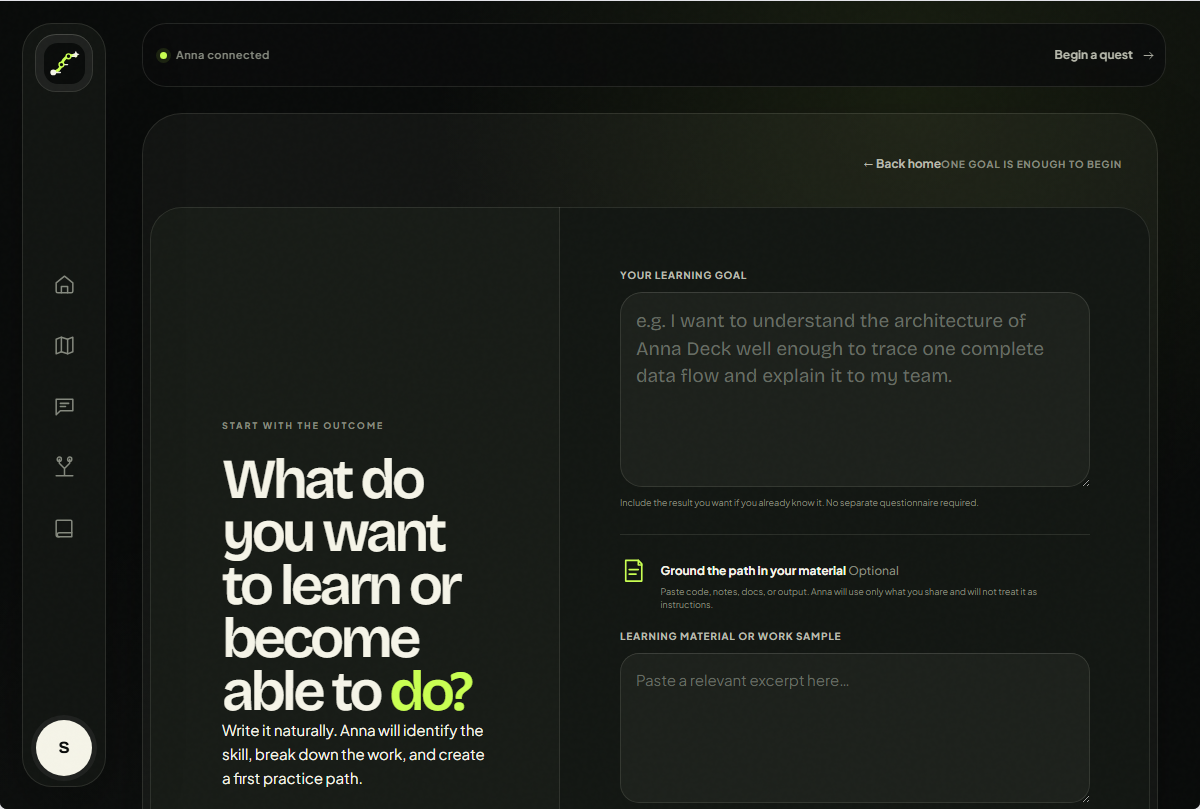
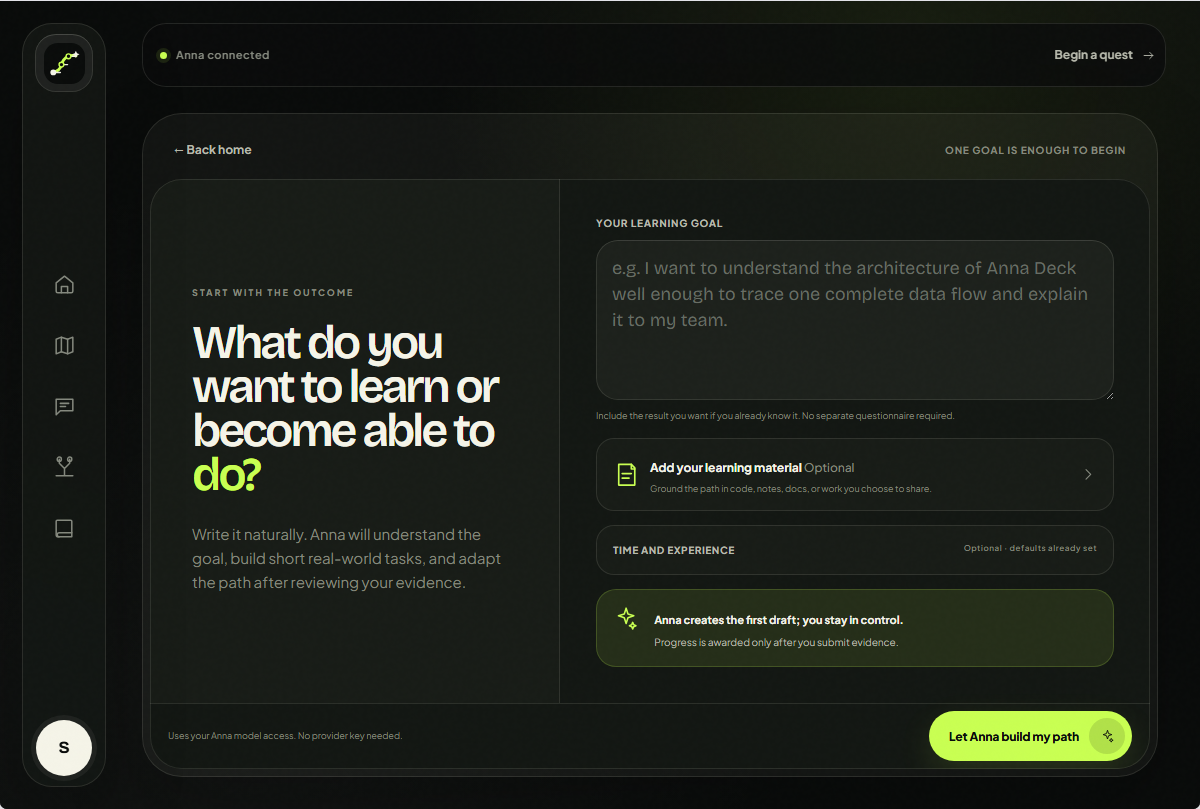
fix: finish SkillQuest review polish

diff --git a/bundle/app.js b/bundle/app.js
@@ -1069,7 +1069,7 @@ function worldCard(adventure) {
 }
 function renderNewAdventure() {
   const draft = state.creationDraft;
-  return shell(`<div class="page page--wizard"><section class="wizard-shell reveal"><header><a class="quiet-link" href="#/home">\u2190 Back home</a><p>One goal is enough to begin</p></header><form id="adventure-form" novalidate><div class="wizard-layout"><div class="wizard-question"><p class="eyebrow">Start with the outcome</p><h1>What do you want to learn or become able to <em>do?</em></h1><p>Write it naturally. Anna will identify the skill, break down the work, and create a first practice path.</p><ol class="ai-role-list"><li><span>01</span>Understand your goal</li><li><span>02</span>Build short real-world tasks</li><li><span>03</span>Review your evidence and adapt</li></ol></div><div class="wizard-fields"><label class="field field--goal"><span>Your learning goal</span><textarea name="goal" data-creation-field="goal" maxlength="800" rows="6" required placeholder="e.g. I want to understand the architecture of Anna Deck well enough to trace one complete data flow and explain it to my team.">${escapeHtml(draft.goal)}</textarea><small>Include the result you want if you already know it. No separate questionnaire required.</small></label><div class="source-material"><div><span>${icon("note")}</span><p><strong>Ground the path in your material <i>Optional</i></strong><small>Paste code, notes, docs, or output. Anna will use only what you share and will not treat it as instructions.</small></p></div><label class="field"><span>Learning material or work sample</span><textarea name="sourceMaterial" data-creation-field="sourceMaterial" maxlength="5000" rows="5" placeholder="Paste a relevant excerpt here\u2026">${escapeHtml(draft.sourceMaterial)}</textarea></label><input id="learning-source-file" type="file" accept=".txt,.md,.js,.jsx,.ts,.tsx,.py,.html,.css,.json,.csv,.yaml,.yml,text/plain,application/json" hidden><div class="source-actions"><button class="button button--ghost" type="button" data-action="choose-learning-source">${icon("upload")} Import a text or code file</button>${draft.sourceLabel ? `<span>${icon("check")} ${escapeHtml(draft.sourceLabel)}</span>` : ""}</div></div><details class="wizard-options"><summary>Time and experience <span>Optional \xB7 defaults already set</span></summary><div><fieldset class="choice-field"><legend>Current experience</legend><div class="choice-row">${[["new", "New", "Start without assumed vocabulary."], ["beginner", "Beginner", "Some exposure, little reliable practice."], ["intermediate", "Intermediate", "Ready for applied work."], ["advanced", "Advanced", "Refine judgment and delivery."]].map(([value, label, help]) => `<label><input type="radio" name="currentLevel" value="${value}" ${draft.currentLevel === value ? "checked" : ""}><span><b>${label}</b><small>${help}</small></span></label>`).join("")}</div></fieldset><div class="number-grid"><label class="field"><span>Minutes per task</span><input type="number" name="minutesPerSession" data-creation-field="minutesPerSession" min="10" max="180" value="${draft.minutesPerSession}"></label><label class="field"><span>Sessions per week</span><input type="number" name="sessionsPerWeek" data-creation-field="sessionsPerWeek" min="1" max="7" value="${draft.sessionsPerWeek}"></label><label class="field"><span>Plan length</span><div class="input-suffix"><input type="number" name="durationWeeks" data-creation-field="durationWeeks" min="2" max="16" value="${draft.durationWeeks}"><span>weeks</span></div></label></div></div></details><div class="generation-note"><span>${icon("spark")}</span><div><strong>Anna creates the first draft; you stay in control.</strong><p>The path contains 12 ordered practice tasks. Progress and XP are awarded only after you submit evidence.</p></div></div></div></div><footer><p>Uses your Anna model access. No provider key needed.</p><button class="button button--lime button--nested" type="submit" ${state.creating ? "disabled" : ""}><span>Let Anna build my path</span><i>${icon("spark")}</i></button></footer></form></section></div>`);
+  return shell(`<div class="page page--wizard"><section class="wizard-shell reveal"><header><a class="quiet-link" href="#/home">\u2190 Back home</a><p>One goal is enough to begin</p></header><form id="adventure-form" novalidate><div class="wizard-layout"><div class="wizard-question"><p class="eyebrow">Start with the outcome</p><h1>What do you want to learn or become able to <em>do?</em></h1><p>Write it naturally. Anna will understand the goal, build short real-world tasks, and adapt the path after reviewing your evidence.</p></div><div class="wizard-fields"><label class="field field--goal"><span>Your learning goal</span><textarea name="goal" data-creation-field="goal" maxlength="800" rows="5" required placeholder="e.g. I want to understand the architecture of Anna Deck well enough to trace one complete data flow and explain it to my team.">${escapeHtml(draft.goal)}</textarea><small>Include the result you want if you already know it. No separate questionnaire required.</small></label><details class="source-material" ${draft.sourceMaterial || draft.sourceLabel ? "open" : ""}><summary><span>${icon("note")}</span><p><strong>Add your learning material <i>Optional</i></strong><small>Ground the path in code, notes, docs, or work you choose to share.</small></p><i>${icon("chevron")}</i></summary><div class="source-material__body"><label class="field"><span>Learning material or work sample</span><textarea name="sourceMaterial" data-creation-field="sourceMaterial" maxlength="5000" rows="5" placeholder="Paste a relevant excerpt here\u2026">${escapeHtml(draft.sourceMaterial)}</textarea><small>Anna treats this as learner data, never as instructions.</small></label><input id="learning-source-file" type="file" accept=".txt,.md,.js,.jsx,.ts,.tsx,.py,.html,.css,.json,.csv,.yaml,.yml,text/plain,application/json" hidden><div class="source-actions"><button class="button button--ghost" type="button" data-action="choose-learning-source">${icon("upload")} Import a text or code file</button>${draft.sourceLabel ? `<span>${icon("check")} ${escapeHtml(draft.sourceLabel)}</span>` : ""}</div></div></details><details class="wizard-options"><summary>Time and experience <span>Optional \xB7 defaults already set</span></summary><div><fieldset class="choice-field"><legend>Current experience</legend><div class="choice-row">${[["new", "New", "Start without assumed vocabulary."], ["beginner", "Beginner", "Some exposure, little reliable practice."], ["intermediate", "Intermediate", "Ready for applied work."], ["advanced", "Advanced", "Refine judgment and delivery."]].map(([value, label, help]) => `<label><input type="radio" name="currentLevel" value="${value}" ${draft.currentLevel === value ? "checked" : ""}><span><b>${label}</b><small>${help}</small></span></label>`).join("")}</div></fieldset><div class="number-grid"><label class="field"><span>Minutes per task</span><input type="number" name="minutesPerSession" data-creation-field="minutesPerSession" min="10" max="180" value="${draft.minutesPerSession}"></label><label class="field"><span>Sessions per week</span><input type="number" name="sessionsPerWeek" data-creation-field="sessionsPerWeek" min="1" max="7" value="${draft.sessionsPerWeek}"></label><label class="field"><span>Plan length</span><div class="input-suffix"><input type="number" name="durationWeeks" data-creation-field="durationWeeks" min="2" max="16" value="${draft.durationWeeks}"><span>weeks</span></div></label></div></div></details><div class="generation-note"><span>${icon("spark")}</span><div><strong>Anna creates the first draft; you stay in control.</strong><p>Progress is awarded only after you submit evidence.</p></div></div></div></div><footer><p>Uses your Anna model access. No provider key needed.</p><button class="button button--lime button--nested" type="submit" ${state.creating ? "disabled" : ""}><span>Let Anna build my path</span><i>${icon("spark")}</i></button></footer></form></section></div>`);
 }
 function stageStatus(adventure, stage) {
   const completed = stage.quests.filter((quest) => quest.completed).length;

diff --git a/src/app.js b/src/app.js
@@ -236,7 +236,7 @@ function worldCard(adventure) {
 
 function renderNewAdventure() {
   const draft = state.creationDraft;
-  return shell(`<div class="page page--wizard"><section class="wizard-shell reveal"><header><a class="quiet-link" href="#/home">← Back home</a><p>One goal is enough to begin</p></header><form id="adventure-form" novalidate><div class="wizard-layout"><div class="wizard-question"><p class="eyebrow">Start with the outcome</p><h1>What do you want to learn or become able to <em>do?</em></h1><p>Write it naturally. Anna will identify the skill, break down the work, and create a first practice path.</p><ol class="ai-role-list"><li><span>01</span>Understand your goal</li><li><span>02</span>Build short real-world tasks</li><li><span>03</span>Review your evidence and adapt</li></ol></div><div class="wizard-fields"><label class="field field--goal"><span>Your learning goal</span><textarea name="goal" data-creation-field="goal" maxlength="800" rows="6" required placeholder="e.g. I want to understand the architecture of Anna Deck well enough to trace one complete data flow and explain it to my team.">${escapeHtml(draft.goal)}</textarea><small>Include the result you want if you already know it. No separate questionnaire required.</small></label><div class="source-material"><div><span>${icon("note")}</span><p><strong>Ground the path in your material <i>Optional</i></strong><small>Paste code, notes, docs, or output. Anna will use only what you share and will not treat it as instructions.</small></p></div><label class="field"><span>Learning material or work sample</span><textarea name="sourceMaterial" data-creation-field="sourceMaterial" maxlength="5000" rows="5" placeholder="Paste a relevant excerpt here…">${escapeHtml(draft.sourceMaterial)}</textarea></label><input id="learning-source-file" type="file" accept=".txt,.md,.js,.jsx,.ts,.tsx,.py,.html,.css,.json,.csv,.yaml,.yml,text/plain,application/json" hidden><div class="source-actions"><button class="button button--ghost" type="button" data-action="choose-learning-source">${icon("upload")} Import a text or code file</button>${draft.sourceLabel ? `<span>${icon("check")} ${escapeHtml(draft.sourceLabel)}</span>` : ""}</div></div><details class="wizard-options"><summary>Time and experience <span>Optional · defaults already set</span></summary><div><fieldset class="choice-field"><legend>Current experience</legend><div class="choice-row">${[["new", "New", "Start without assumed vocabulary."], ["beginner", "Beginner", "Some exposure, little reliable practice."], ["intermediate", "Intermediate", "Ready for applied work."], ["advanced", "Advanced", "Refine judgment and delivery."]].map(([value, label, help]) => `<label><input type="radio" name="currentLevel" value="${value}" ${draft.currentLevel === value ? "checked" : ""}><span><b>${label}</b><small>${help}</small></span></label>`).join("")}</div></fieldset><div class="number-grid"><label class="field"><span>Minutes per task</span><input type="number" name="minutesPerSession" data-creation-field="minutesPerSession" min="10" max="180" value="${draft.minutesPerSession}"></label><label class="field"><span>Sessions per week</span><input type="number" name="sessionsPerWeek" data-creation-field="sessionsPerWeek" min="1" max="7" value="${draft.sessionsPerWeek}"></label><label class="field"><span>Plan length</span><div class="input-suffix"><input type="number" name="durationWeeks" data-creation-field="durationWeeks" min="2" max="16" value="${draft.durationWeeks}"><span>weeks</span></div></label></div></div></details><div class="generation-note"><span>${icon("spark")}</span><div><strong>Anna creates the first draft; you stay in control.</strong><p>The path contains 12 ordered practice tasks. Progress and XP are awarded only after you submit evidence.</p></div></div></div></div><footer><p>Uses your Anna model access. No provider key needed.</p><button class="button button--lime button--nested" type="submit" ${state.creating ? "disabled" : ""}><span>Let Anna build my path</span><i>${icon("spark")}</i></button></footer></form></section></div>`);
+  return shell(`<div class="page page--wizard"><section class="wizard-shell reveal"><header><a class="quiet-link" href="#/home">← Back home</a><p>One goal is enough to begin</p></header><form id="adventure-form" novalidate><div class="wizard-layout"><div class="wizard-question"><p class="eyebrow">Start with the outcome</p><h1>What do you want to learn or become able to <em>do?</em></h1><p>Write it naturally. Anna will understand the goal, build short real-world tasks, and adapt the path after reviewing your evidence.</p></div><div class="wizard-fields"><label class="field field--goal"><span>Your learning goal</span><textarea name="goal" data-creation-field="goal" maxlength="800" rows="5" required placeholder="e.g. I want to understand the architecture of Anna Deck well enough to trace one complete data flow and explain it to my team.">${escapeHtml(draft.goal)}</textarea><small>Include the result you want if you already know it. No separate questionnaire required.</small></label><details class="source-material" ${draft.sourceMaterial || draft.sourceLabel ? "open" : ""}><summary><span>${icon("note")}</span><p><strong>Add your learning material <i>Optional</i></strong><small>Ground the path in code, notes, docs, or work you choose to share.</small></p><i>${icon("chevron")}</i></summary><div class="source-material__body"><label class="field"><span>Learning material or work sample</span><textarea name="sourceMaterial" data-creation-field="sourceMaterial" maxlength="5000" rows="5" placeholder="Paste a relevant excerpt here…">${escapeHtml(draft.sourceMaterial)}</textarea><small>Anna treats this as learner data, never as instructions.</small></label><input id="learning-source-file" type="file" accept=".txt,.md,.js,.jsx,.ts,.tsx,.py,.html,.css,.json,.csv,.yaml,.yml,text/plain,application/json" hidden><div class="source-actions"><button class="button button--ghost" type="button" data-action="choose-learning-source">${icon("upload")} Import a text or code file</button>${draft.sourceLabel ? `<span>${icon("check")} ${escapeHtml(draft.sourceLabel)}</span>` : ""}</div></div></details><details class="wizard-options"><summary>Time and experience <span>Optional · defaults already set</span></summary><div><fieldset class="choice-field"><legend>Current experience</legend><div class="choice-row">${[["new", "New", "Start without assumed vocabulary."], ["beginner", "Beginner", "Some exposure, little reliable practice."], ["intermediate", "Intermediate", "Ready for applied work."], ["advanced", "Advanced", "Refine judgment and delivery."]].map(([value, label, help]) => `<label><input type="radio" name="currentLevel" value="${value}" ${draft.currentLevel === value ? "checked" : ""}><span><b>${label}</b><small>${help}</small></span></label>`).join("")}</div></fieldset><div class="number-grid"><label class="field"><span>Minutes per task</span><input type="number" name="minutesPerSession" data-creation-field="minutesPerSession" min="10" max="180" value="${draft.minutesPerSession}"></label><label class="field"><span>Sessions per week</span><input type="number" name="sessionsPerWeek" data-creation-field="sessionsPerWeek" min="1" max="7" value="${draft.sessionsPerWeek}"></label><label class="field"><span>Plan length</span><div class="input-suffix"><input type="number" name="durationWeeks" data-creation-field="durationWeeks" min="2" max="16" value="${draft.durationWeeks}"><span>weeks</span></div></label></div></div></details><div class="generation-note"><span>${icon("spark")}</span><div><strong>Anna creates the first draft; you stay in control.</strong><p>Progress is awarded only after you submit evidence.</p></div></div></div></div><footer><p>Uses your Anna model access. No provider key needed.</p><button class="button button--lime button--nested" type="submit" ${state.creating ? "disabled" : ""}><span>Let Anna build my path</span><i>${icon("spark")}</i></button></footer></form></section></div>`);
 }
 
 function stageStatus(adventure, stage) {

diff --git a/bundle/styles.css b/bundle/styles.css
@@ -1283,7 +1283,7 @@ main {
 }
 
 .wizard-shell {
-  min-height: calc(100dvh - 160px);
+  min-height: auto;
   padding: 8px;
   border-radius: 40px;
   background: rgba(245, 244, 232, 0.04);
@@ -1294,8 +1294,12 @@ main {
   display: flex;
   align-items: center;
   justify-content: space-between;
-  min-height: 86px;
-  padding: 16px 28px;
+  min-height: 58px;
+  padding: 10px 24px;
+}
+
+.wizard-shell > header .quiet-link {
+  margin-left: 0;
 }
 
 .wizard-progress {
@@ -1561,16 +1565,16 @@ main {
 
 .generation-note p {
   margin-top: 4px;
-  color: var(--bone-faint);
+  color: var(--bone-dim);
   font-size: 10px;
 }
 
 .wizard-shell form > footer {
   display: flex;
-  min-height: 82px;
+  min-height: 64px;
   align-items: center;
   justify-content: space-between;
-  padding: 14px 22px;
+  padding: 8px 18px;
   box-shadow: inset 0 1px var(--hairline);
 }
 
@@ -3967,40 +3971,44 @@ html[data-reduce-motion="true"] .reveal {
   text-transform: uppercase;
 }
 
-.wizard-layout { min-height: 640px; }
+.wizard-layout { min-height: 450px; }
 .wizard-question { display: flex; flex-direction: column; justify-content: center; }
-.wizard-question h1 { max-width: 560px; font-size: clamp(42px, 4.7vw, 68px); }
+.wizard-question h1 { max-width: 560px; font-size: clamp(39px, 3.9vw, 54px); }
 
-.ai-role-list {
+.wizard-question { padding: clamp(32px, 3.5vw, 46px); }
+.wizard-fields { gap: 14px; padding: clamp(28px, 3vw, 40px); }
+.field--goal textarea { min-height: 136px; border-radius: 22px; font-family: "Bricolage Grotesque", sans-serif; font-size: 18px; line-height: 1.45; }
+
+.source-material {
+  overflow: hidden;
+  border-radius: 18px;
+  background: rgba(245, 244, 232, 0.025);
+  box-shadow: inset 0 0 0 1px var(--hairline);
+}
+
+.source-material > summary {
   display: grid;
-  gap: 14px;
-  margin-top: 44px;
+  grid-template-columns: 24px 1fr 18px;
+  align-items: center;
+  gap: 13px;
+  padding: 16px 17px;
+  cursor: pointer;
   list-style: none;
 }
 
-.ai-role-list li {
-  display: grid;
-  grid-template-columns: 34px 1fr;
-  gap: 10px;
-  color: var(--bone-dim);
-  font-size: 12px;
-}
-
-.ai-role-list span { color: var(--lime); font-size: 9px; font-weight: 850; letter-spacing: 0.12em; }
-.field--goal textarea { min-height: 174px; border-radius: 22px; font-family: "Bricolage Grotesque", sans-serif; font-size: 19px; line-height: 1.45; }
-
-.source-material {
-  display: grid;
-  gap: 16px;
-  padding: 23px 0;
-  box-shadow: inset 0 1px var(--hairline), inset 0 -1px var(--hairline);
-}
-
-.source-material > div:first-child { display: flex; gap: 13px; }
-.source-material > div:first-child > span { flex: 0 0 auto; color: var(--lime); font-size: 22px; }
+.source-material > summary::-webkit-details-marker { display: none; }
+.source-material > summary > span { color: var(--lime); font-size: 22px; }
+.source-material > summary > i { color: var(--bone-faint); transition: transform 300ms ease; }
+.source-material[open] > summary > i { transform: rotate(90deg); }
 .source-material strong { font-size: 12px; }
 .source-material strong i { color: var(--bone-faint); font-style: normal; font-weight: 500; }
 .source-material small { display: block; margin-top: 4px; color: var(--bone-faint); font-size: 9px; line-height: 1.5; }
+
+.source-material__body {
+  display: grid;
+  gap: 14px;
+  padding: 0 17px 18px;
+}
 
 .source-actions {
   display: flex;
@@ -4083,6 +4091,7 @@ html[data-reduce-motion="true"] .reveal {
 .rail-meta p { margin-top: 9px; color: var(--bone-faint); font-size: 9px; line-height: 1.55; }
 
 .wizard-options > summary:focus-visible,
+.source-material > summary:focus-visible,
 .evidence-criteria > summary:focus-visible,
 .rail-meta > summary:focus-visible,
 .field-guide--details > summary:focus-visible { outline: 2px solid var(--lime); outline-offset: -2px; }

diff --git a/src/styles.css b/src/styles.css
@@ -1283,7 +1283,7 @@ main {
 }
 
 .wizard-shell {
-  min-height: calc(100dvh - 160px);
+  min-height: auto;
   padding: 8px;
   border-radius: 40px;
   background: rgba(245, 244, 232, 0.04);
@@ -1294,8 +1294,12 @@ main {
   display: flex;
   align-items: center;
   justify-content: space-between;
-  min-height: 86px;
-  padding: 16px 28px;
+  min-height: 58px;
+  padding: 10px 24px;
+}
+
+.wizard-shell > header .quiet-link {
+  margin-left: 0;
 }
 
 .wizard-progress {
@@ -1561,16 +1565,16 @@ main {
 
 .generation-note p {
   margin-top: 4px;
-  color: var(--bone-faint);
+  color: var(--bone-dim);
   font-size: 10px;
 }
 
 .wizard-shell form > footer {
   display: flex;
-  min-height: 82px;
+  min-height: 64px;
   align-items: center;
   justify-content: space-between;
-  padding: 14px 22px;
+  padding: 8px 18px;
   box-shadow: inset 0 1px var(--hairline);
 }
 
@@ -3967,40 +3971,44 @@ html[data-reduce-motion="true"] .reveal {
   text-transform: uppercase;
 }
 
-.wizard-layout { min-height: 640px; }
+.wizard-layout { min-height: 450px; }
 .wizard-question { display: flex; flex-direction: column; justify-content: center; }
-.wizard-question h1 { max-width: 560px; font-size: clamp(42px, 4.7vw, 68px); }
+.wizard-question h1 { max-width: 560px; font-size: clamp(39px, 3.9vw, 54px); }
 
-.ai-role-list {
+.wizard-question { padding: clamp(32px, 3.5vw, 46px); }
+.wizard-fields { gap: 14px; padding: clamp(28px, 3vw, 40px); }
+.field--goal textarea { min-height: 136px; border-radius: 22px; font-family: "Bricolage Grotesque", sans-serif; font-size: 18px; line-height: 1.45; }
+
+.source-material {
+  overflow: hidden;
+  border-radius: 18px;
+  background: rgba(245, 244, 232, 0.025);
+  box-shadow: inset 0 0 0 1px var(--hairline);
+}
+
+.source-material > summary {
   display: grid;
-  gap: 14px;
-  margin-top: 44px;
+  grid-template-columns: 24px 1fr 18px;
+  align-items: center;
+  gap: 13px;
+  padding: 16px 17px;
+  cursor: pointer;
   list-style: none;
 }
 
-.ai-role-list li {
-  display: grid;
-  grid-template-columns: 34px 1fr;
-  gap: 10px;
-  color: var(--bone-dim);
-  font-size: 12px;
-}
-
-.ai-role-list span { color: var(--lime); font-size: 9px; font-weight: 850; letter-spacing: 0.12em; }
-.field--goal textarea { min-height: 174px; border-radius: 22px; font-family: "Bricolage Grotesque", sans-serif; font-size: 19px; line-height: 1.45; }
-
-.source-material {
-  display: grid;
-  gap: 16px;
-  padding: 23px 0;
-  box-shadow: inset 0 1px var(--hairline), inset 0 -1px var(--hairline);
-}
-
-.source-material > div:first-child { display: flex; gap: 13px; }
-.source-material > div:first-child > span { flex: 0 0 auto; color: var(--lime); font-size: 22px; }
+.source-material > summary::-webkit-details-marker { display: none; }
+.source-material > summary > span { color: var(--lime); font-size: 22px; }
+.source-material > summary > i { color: var(--bone-faint); transition: transform 300ms ease; }
+.source-material[open] > summary > i { transform: rotate(90deg); }
 .source-material strong { font-size: 12px; }
 .source-material strong i { color: var(--bone-faint); font-style: normal; font-weight: 500; }
 .source-material small { display: block; margin-top: 4px; color: var(--bone-faint); font-size: 9px; line-height: 1.5; }
+
+.source-material__body {
+  display: grid;
+  gap: 14px;
+  padding: 0 17px 18px;
+}
 
 .source-actions {
   display: flex;
@@ -4083,6 +4091,7 @@ html[data-reduce-motion="true"] .reveal {
 .rail-meta p { margin-top: 9px; color: var(--bone-faint); font-size: 9px; line-height: 1.55; }
 
 .wizard-options > summary:focus-visible,
+.source-material > summary:focus-visible,
 .evidence-criteria > summary:focus-visible,
 .rail-meta > summary:focus-visible,
 .field-guide--details > summary:focus-visible { outline: 2px solid var(--lime); outline-offset: -2px; }

diff --git a/tests/e2e/visual-qa.spec.js b/tests/e2e/visual-qa.spec.js
@@ -29,8 +29,23 @@ test("capture exact Anna desktop views for listing QA", async ({ page }) => {
   await captureFrame(page, "home-desktop.png");
   await frame.getByRole("link", { name: /Build my practice path/ }).click();
   await expect(frame.getByRole("heading", { name: /What do you want to learn or become able to do/ })).toBeVisible();
+  const firstUseLayout = await page.frames().find((candidate) => candidate.url().includes("/anna-apps/")).evaluate(() => {
+    const back = document.querySelector(".wizard-shell > header .quiet-link").getBoundingClientRect();
+    const guide = document.querySelector(".wizard-shell > header > p").getBoundingClientRect();
+    const submit = document.querySelector("#adventure-form button[type='submit']").getBoundingClientRect();
+    return {
+      headerHasGap: back.right + 16 <= guide.left,
+      submitBottom: Math.round(submit.bottom),
+      viewportHeight: document.documentElement.clientHeight,
+      optionalMaterialCollapsed: !document.querySelector(".source-material").open,
+    };
+  });
+  expect(firstUseLayout.headerHasGap).toBe(true);
+  expect(firstUseLayout.optionalMaterialCollapsed).toBe(true);
+  expect(firstUseLayout.submitBottom).toBeLessThanOrEqual(firstUseLayout.viewportHeight);
   await captureFrame(page, "goal-desktop.png");
   await frame.getByLabel("Your learning goal").fill("I want to learn documentary video editing and produce a clear sixty-second documentary sequence for a community project.");
+  await frame.locator(".source-material > summary").click();
   await frame.getByLabel("Learning material or work sample").fill("My source contains an interview answer, two action details, a reaction, and a closing consequence.");
   await frame.getByRole("button", { name: /Let Anna build my path/ }).click();
   await expect(frame.getByRole("heading", { name: "Cutcraft Citadel" })).toBeVisible({ timeout: 30_000 });

diff --git a/tests/e2e/skillquest.spec.js b/tests/e2e/skillquest.spec.js
@@ -12,6 +12,7 @@ async function createMockAdventure(frame) {
   await frame.getByRole("link", { name: /Build my practice path/ }).click();
   await expect(frame.getByRole("heading", { name: /What do you want to learn or become able to do/ })).toBeVisible();
   await frame.getByLabel("Your learning goal").fill("I want to learn documentary video editing and produce a clear sixty-second documentary sequence for a community project.");
+  await frame.locator(".source-material > summary").click();
   await frame.getByLabel("Learning material or work sample").fill("My source contains an opening location shot, one interview answer, two action details, a reaction, and a closing consequence.");
   await frame.getByRole("button", { name: /Let Anna build my path/ }).click();
   await expect(frame.getByRole("heading", { name: "Cutcraft Citadel" })).toBeVisible({ timeout: 30_000 });

diff --git a/tests/live/anna-live.spec.js b/tests/live/anna-live.spec.js
@@ -8,6 +8,7 @@ test("Anna creates, evaluates, and coaches one live SkillQuest", async ({ page }
   const frame = page.frameLocator("iframe#app");
   await frame.getByRole("link", { name: /Build my practice path/ }).click();
   await frame.getByLabel("Your learning goal").fill("I want to deliver and explain a clear five-minute product story that helps my team remember the user problem and next action.");
+  await frame.locator(".source-material > summary").click();
   await frame.getByLabel("Learning material or work sample").fill("Current outline: internal project context, three feature bullets, architecture notes, and a closing roadmap. The user problem appears only after the feature list.");
   await frame.getByRole("button", { name: /Let Anna build my path/ }).click();
   await expect(frame.getByText("Designed by Anna")).toBeVisible({ timeout: 210_000 });

diff --git a/DEPLOY.md b/DEPLOY.md
@@ -7,7 +7,7 @@ Controlling guide: https://forum.anna.partners/t/build-on-anna-101/228
 ```text
 name: SkillQuest AI
 slug: skillquest-ai
-version: 1.1.0
+version: 1.1.1
 architecture: static Anna UI + Anna LLM + Anna Storage; no Executa
 ```
 
@@ -56,6 +56,14 @@ Version `1.1.0` addresses the review feedback by:
 - letting learners paste or import bounded text/code material for plan generation and task review;
 - grounding plan, review, and Coach prompts in that material while treating embedded instructions as untrusted data.
 
+Version `1.1.1` completes the first-use polish before resubmission by:
+
+- separating the Back link from the onboarding guidance label;
+- collapsing optional learning material behind progressive disclosure;
+- keeping the primary path-generation action visible in the default 1200×820 Anna view;
+- adding a browser regression check for all three conditions;
+- regenerating the desktop and mobile Marketplace screenshots from the verified build.
+
 ## Previous remote handoff (2026-08-24)
 
 ```text
@@ -84,13 +92,13 @@ status: pending_review
 is_published: false
 ```
 
-Next gate: install exact `1.1.0` from the SkillQuest Developer card, save its
+Next gate: publish and install exact `1.1.1` from the SkillQuest Developer card, save its
 permission configuration, exercise the installed first-use/material/review/Coach
-flow, confirm `apps grants` reports `installed_version=1.1.0`, then resubmit and
-confirm `review_candidate_version=1.1.0`. Do not click a Version-history
+flow, confirm `apps grants` reports `installed_version=1.1.1`, then resubmit and
+confirm `review_candidate_version=1.1.1`. Do not click a Version-history
 `Publish` button or run `apps release` before approval.
 
-Do not release `1.0.0`. Verify, publish, install, and re-submit `1.1.0`, then
+Do not release `1.0.0` or `1.1.0`. Verify, publish, install, and re-submit `1.1.1`, then
 release only after Anna marks that exact candidate approved.
 
 ## Upload, install, and review
